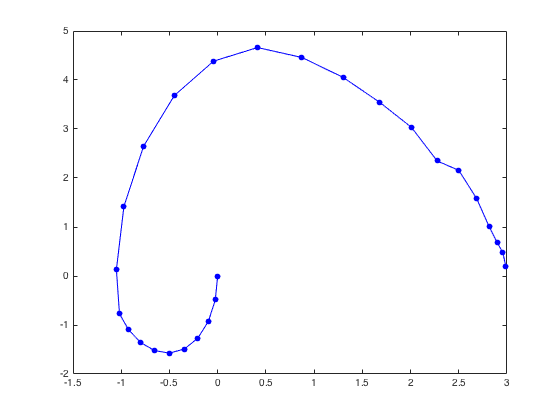
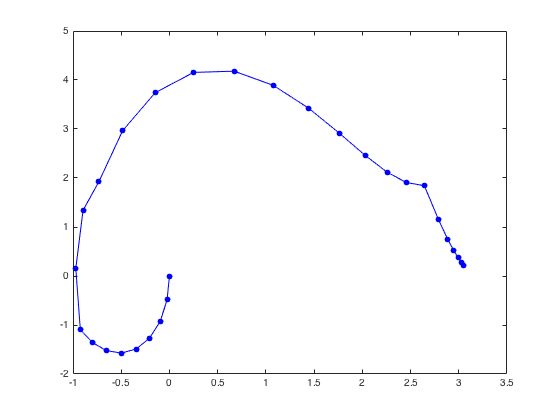
updates

diff --git a/pset4/extendLQR.m b/pset4/extendLQR.m
@@ -3,25 +3,17 @@ function new_vert = extendLQR( closest_vert,xy,K )
 g = 9.81;
 b = 0.1;
 
-% get current difference
+% get current difference, again noting that theta can wrap around
 diff = closest_vert - xy;
-while diff(1) > 3*pi/2
-    diff(1) = diff(1) - 2*pi;
-end
-while diff(1) < -pi/2
-    diff(1) = diff(1) + 2*pi;
-end
+diff(1) = diff(1) - 2*pi*ceil((diff(1) - pi)/(2*pi));
+u_opt = -K*diff;
 
 % apply optimal u
-u_opt = min(max(-K*diff, -5), 5);
+u_opt = min(max(u_opt, -5), 5);
 [t,y] = ode45(@(t,y) [y(2); u_opt - g*sin(y(1))-b*y(2)],[0 .1],closest_vert);
 
 new_vert = y(size(y,1), :)';
-while new_vert(1) > 3*pi/2
-    new_vert(1) = new_vert(1) - 2*pi;
-end
-while new_vert(1) < -pi/2
-    new_vert(1) = new_vert(1) + 2*pi;
-end
+% normalize to between -pi/2 to 3pi/2
+new_vert(1) = new_vert(1) - 2*pi*ceil((new_vert(1) - 3*pi/2)/(2*pi));
 end
 

diff --git a/pset4/closestVertexLQR.m b/pset4/closestVertexLQR.m
@@ -18,15 +18,9 @@ R = 0.1;
 [K,S] = lqr(A,B,Q,R);
 
 for k=1:size(rrt_verts, 2)
-    % calculate difference from xy taking into account wrapping of theta
-    % then update cost
+    % calculate cost, noting wraparound possibility of theta
     diff = rrt_verts(:, k) - xy;
-    while diff(1) < -pi/2
-        diff(1) = diff(1) + 2*pi;
-    end
-    while diff(1) > 3*pi/2
-        diff(1) = diff(1) - 2*pi;
-    end
+    diff(1) = diff(1) - 2*pi*ceil((diff(1) - pi)/(2*pi));
     cost = diff'*S*diff;
     if cost < min_cost
         min_cost = cost;

diff --git a/pset4/extendEuclidean.m b/pset4/extendEuclidean.m
@@ -14,12 +14,7 @@ for k = 1:size(u,2)
     [t,y] = ode45(@(t,y) [y(2); u(k) - g*sin(y(1))-b*y(2)],[0 .1],closest_vert);
     sim_vert = y(size(y,1), :)';
     % normalize theta to within [-pi/2, 3*pi/2]
-    while sim_vert(1) > 3*pi/2
-        sim_vert(1) = sim_vert(1) - 2*pi;
-    end
-    while sim_vert(1) < -pi/2
-        sim_vert(1) = sim_vert(1) + 2*pi;
-    end
+    sim_vert(1) = sim_vert(1) - 2*pi*ceil((sim_vert(1) - 3*pi/2)/(2*pi));
     sim_res(:, k) = sim_vert;
 end
 
